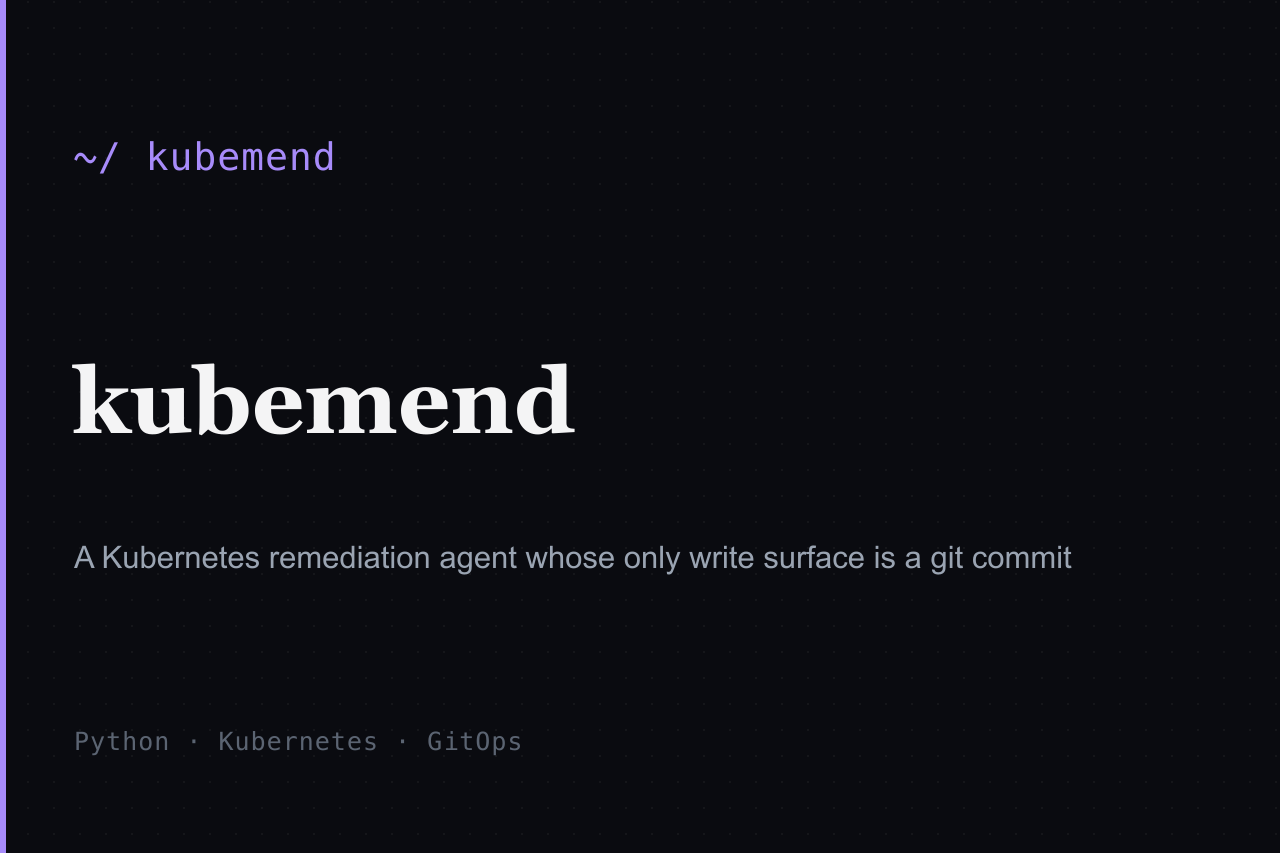
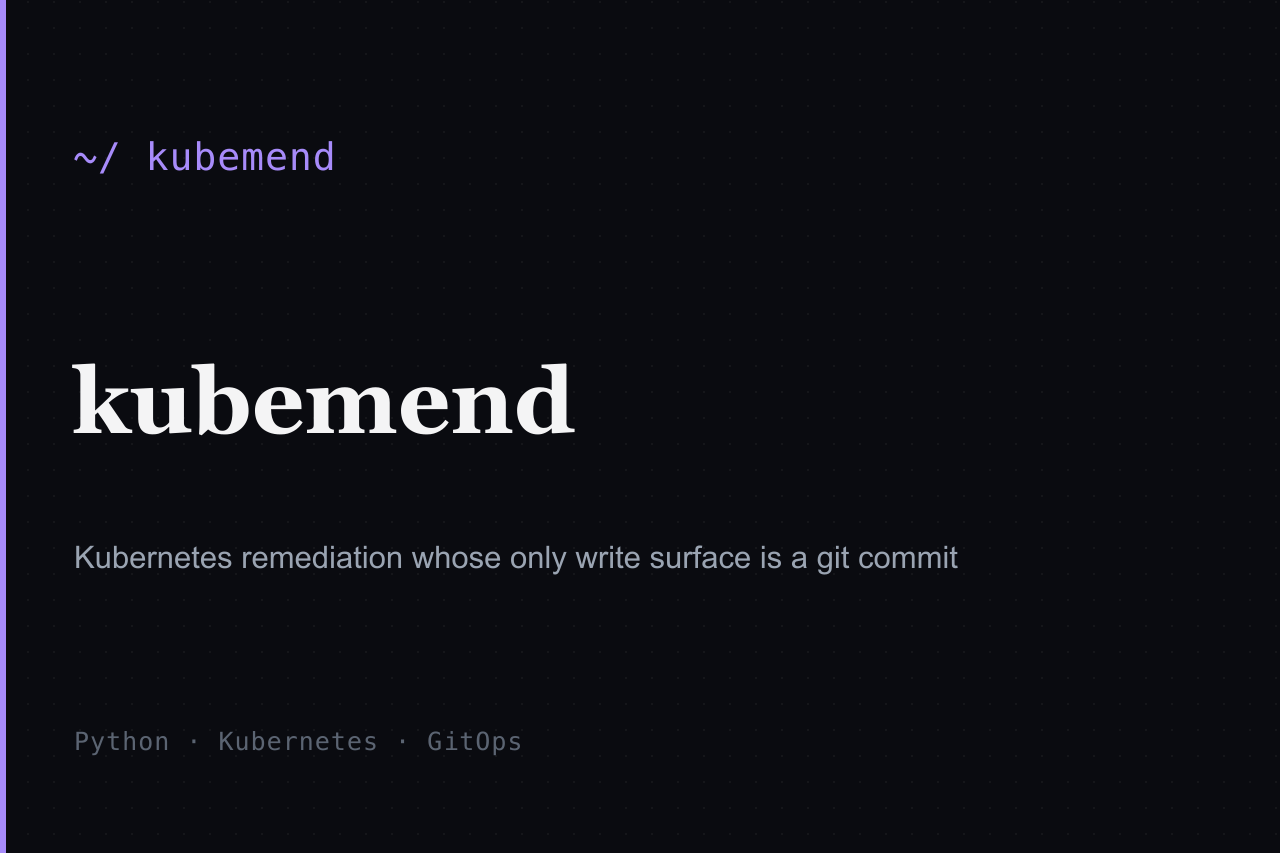
Correct experience and project facts to match the resume
- Current UIC role: add the C-to-Rust validation work.
- Mu Sigma: Software Engineer; real scope and the 6h-to-under-2 data prep.
- rag-redteam: 7 probes, 42-48% framework ASR from the README.
- kubemend: remediation tool with a deterministic planner, not an agent.
- MetARAG: latency cut by a third, processing time by two thirds.
- ECI: 14 feeds, no AWS Lambda.
- EKS: framed as my deployment of a community reference app.
- Movie Rec and Counterfactual: stack and models as recorded.

Changed region(s): [[0.0625, 0.6401, 0.8438, 0.6706]]

diff --git a/src/data/data.tsx b/src/data/data.tsx
@@ -9,8 +9,8 @@ export const data = {
       date: "Aug 2026 - Present",
       location: "Chicago, IL",
       description:
-        "First author on PSBayes, a per-seed Bayesian estimator of residual fuzzing risk, built on Google FuzzBench and LLVM. Paper under submission.",
-      skills: ["Python", "LLVM", "FuzzBench", "Rust", "AWS", "Docker", "Bash"],
+        "Building a system that translates C to Rust and validates each port with differential fuzzing across CRUST-bench and DARPA TRACTOR. First author on PSBayes, a Bayesian estimator of residual fuzzing risk built on Google FuzzBench and LLVM. Paper under submission.",
+      skills: ["Python", "Rust", "C", "LLVM", "FuzzBench", "AWS", "Docker", "Bash"],
       href: "https://github.com/Srivatsa03",
     },
     {
@@ -27,12 +27,12 @@ export const data = {
     {
       image: "/experience/musigma.png",
       company: "Mu Sigma",
-      role: "Trainee Software Engineer",
+      role: "Software Engineer",
       date: "May 2023 - Jun 2024",
       location: "Bangalore, India",
       description:
-        "Automated Python and SQL ETL for enterprise decision-support clients, cutting recurring data-prep effort ~40%.",
-      skills: ["Python", "SQL", "ETL", "Pandas", "Tableau"],
+        "Wrote the Python modules that turn demand, inventory and capacity into daily build plans for 2 US plants of a global medical-technology manufacturer, and automated weekly data prep from 6 hours to under 2.",
+      skills: ["Python", "SQL", "Pandas", "Airflow", "Azure Data Factory", "Power BI", "React", "Java"],
       href: "https://www.mu-sigma.com",
     },
   ],
@@ -46,17 +46,17 @@ export const data = {
       type: "Open Source",
       technologies: ["Python", "LLM Security", "GitHub Action", "PyPI", "RAG"],
       description:
-        "Red-teams retrieval pipelines across 7 vulnerability classes as a CLI and a CI-gating GitHub Action, with deterministic canary detection and zero runtime dependencies. Benchmarked LangChain, LlamaIndex, and Haystack defaults, all exploitable at 50 to 75%, proving injection is a pipeline problem, not a model one.",
+        "Red-teams retrieval pipelines with 7 probes, shipped as a CLI and a CI-gating GitHub Action, with deterministic canary detection and a zero-dependency core. Benchmarked LangChain, LlamaIndex, and Haystack defaults at 42 to 48% attack success, and found a real retriever makes injection more effective than handing the model the whole corpus.",
     },
     {
-      title: "kubemend | Kubernetes SRE Agent",
+      title: "kubemend | Kubernetes Remediation Tool",
       href: "https://github.com/Srivatsa03/kubemend",
       dates: "Aug 2026 - Present",
       active: true,
       type: "Open Source",
-      technologies: ["Kubernetes", "Python", "SRE", "GitOps", "Agents"],
+      technologies: ["Kubernetes", "Python", "SRE", "GitOps", "k3d"],
       description:
-        "A remediation agent that diagnoses freely and acts narrowly: six typed, reversible actions whose blast radius is computable before execution and whose only write surface is a git commit. Now with a published threat model, evaluation, and findings report, a live GitOps demo, and zero runtime dependencies.",
+        "A remediation tool that holds no cluster credentials and whose only write surface is a reviewed git commit. Six typed, reversible actions, a deterministic planner, and 164 tests, verified end to end on a live k3d cluster, with a 13-page technical report and zero runtime dependencies.",
     },
     {
       title: "MetARAG | Document Intelligence Platform",
@@ -66,7 +66,7 @@ export const data = {
       type: "Industry - CCC Intelligent Solutions",
       technologies: ["RAG", "LangChain", "GPU", "AWS", "Kubernetes"],
       description:
-        "Led 5+ engineers on a GPU-accelerated RAG platform covering parsing, chunking, embeddings, and retrieval tuning, reaching about 93% retrieval precision across 100+ GB with about 65% better processing efficiency and 40% lower latency.",
+        "Led 5+ engineers on a GPU-accelerated RAG platform covering parsing, chunking, metadata enrichment, embeddings, and source-grounded answers. Reached 93% retrieval precision across hundreds of PDFs, and batched GPU inference on a 100+ GB pipeline to cut processing time by two thirds and latency by a third.",
     },
     {
       title: "ECI Pipeline | Android Risk Intelligence",
@@ -74,9 +74,9 @@ export const data = {
       dates: "Jan 2026 - May 2026",
       active: false,
       type: "Industry - TransUnion",
-      technologies: ["FastAPI", "pgvector", "Graph-RAG", "Next.js", "AWS Lambda"],
+      technologies: ["FastAPI", "pgvector", "Graph-RAG", "Groq", "Next.js"],
       description:
-        "A DeltaRAG and Graph-RAG platform on AWS Lambda ingesting 10 live Android security and CVE feeds, turning them into evidence-backed risk tickets with a Sentinel scoring agent and a live Next.js dashboard.",
+        "A 5-agent DeltaRAG and Graph-RAG pipeline watching 14 live Android security and CVE feeds, turning changes into evidence-backed risk tickets with a Sentinel triage agent and a live Next.js console.",
     },
     {
       title: "Chain-of-Thought on CLEVR",
@@ -94,9 +94,9 @@ export const data = {
       dates: "2025",
       active: false,
       type: "Platform - SRE",
-      technologies: ["AWS EKS", "Terraform", "ArgoCD", "Jenkins", "DevSecOps"],
+      technologies: ["AWS EKS", "Terraform", "ArgoCD", "Jenkins", "Trivy"],
       description:
-        "A production 3-tier application on AWS EKS with 8 microservices and zero-downtime deploys, automated end to end with Jenkins, ArgoCD, Trivy, and SonarQube gates, provisioned with Terraform and observed with Prometheus and Grafana.",
+        "My deployment of a community 3-tier reference app on AWS EKS: 8 microservices rolling out with zero downtime, provisioned with Terraform, released through Jenkins and ArgoCD, and gated by Trivy and SonarQube so unscanned images never reach ECR.",
     },
     {
       title: "Movie Recommendation | MLOps Lifecycle",
@@ -104,9 +104,9 @@ export const data = {
       dates: "2025",
       active: false,
       type: "MLOps",
-      technologies: ["Python", "Docker", "Prometheus", "Grafana", "MLOps"],
+      technologies: ["Python", "FastAPI", "Docker", "LaunchDarkly", "Grafana"],
       description:
-        "The full recommender lifecycle, not just a notebook: training, model serving, A/B tests, drift detection, and Prometheus and Grafana dashboards, reaching RMSE 0.58.",
+        "The full recommender lifecycle on a 6-person team: FastAPI serving, provenance logged on every inference, models at RMSE 0.58 rolled out to live traffic slices behind LaunchDarkly flags, schema checks that catch drift, and Prometheus and Grafana dashboards.",
     },
     {
       title: "Counterfactual Fact Verification",
@@ -114,9 +114,9 @@ export const data = {
       dates: "2026 - Present",
       active: true,
       type: "Research",
-      technologies: ["Python", "FEVER", "Phi-3", "Llama 3.1", "Mistral"],
+      technologies: ["Python", "FEVER", "Phi-3 Mini", "Mistral 7B", "4-bit"],
       description:
-        "Zero-shot fact-checking on FEVER with local quantized LLMs, generating counterfactual claim variants across complexity tiers to map where small models stay honest and where they break.",
+        "Zero-shot fact-checking on FEVER with 4-bit Phi-3 Mini and Mistral 7B running locally, generating counterfactual claim variants across complexity tiers to map where small models stay honest and where they break.",
     },
   ],
 
